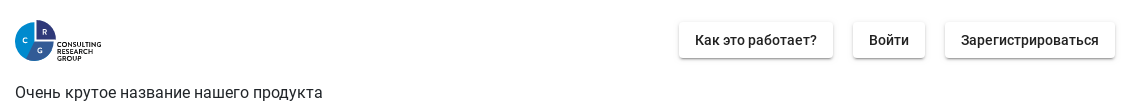
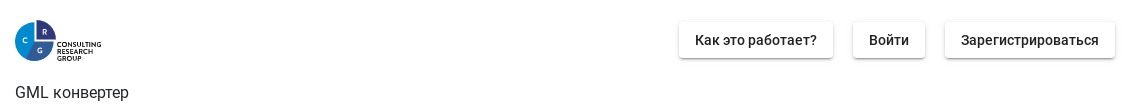
Merged PR 102: edit text
edit text

Related work items: #358

Changed region(s): [[0.0, 0.8286, 0.307, 0.9714]]

diff --git a/portal-ui/src/app/components/home/home@conv.component.html b/portal-ui/src/app/components/home/home@conv.component.html
@@ -1,3 +1,3 @@
 <p>
-  Очень крутое название нашего продукта
+  GML конвертер
 </p>
